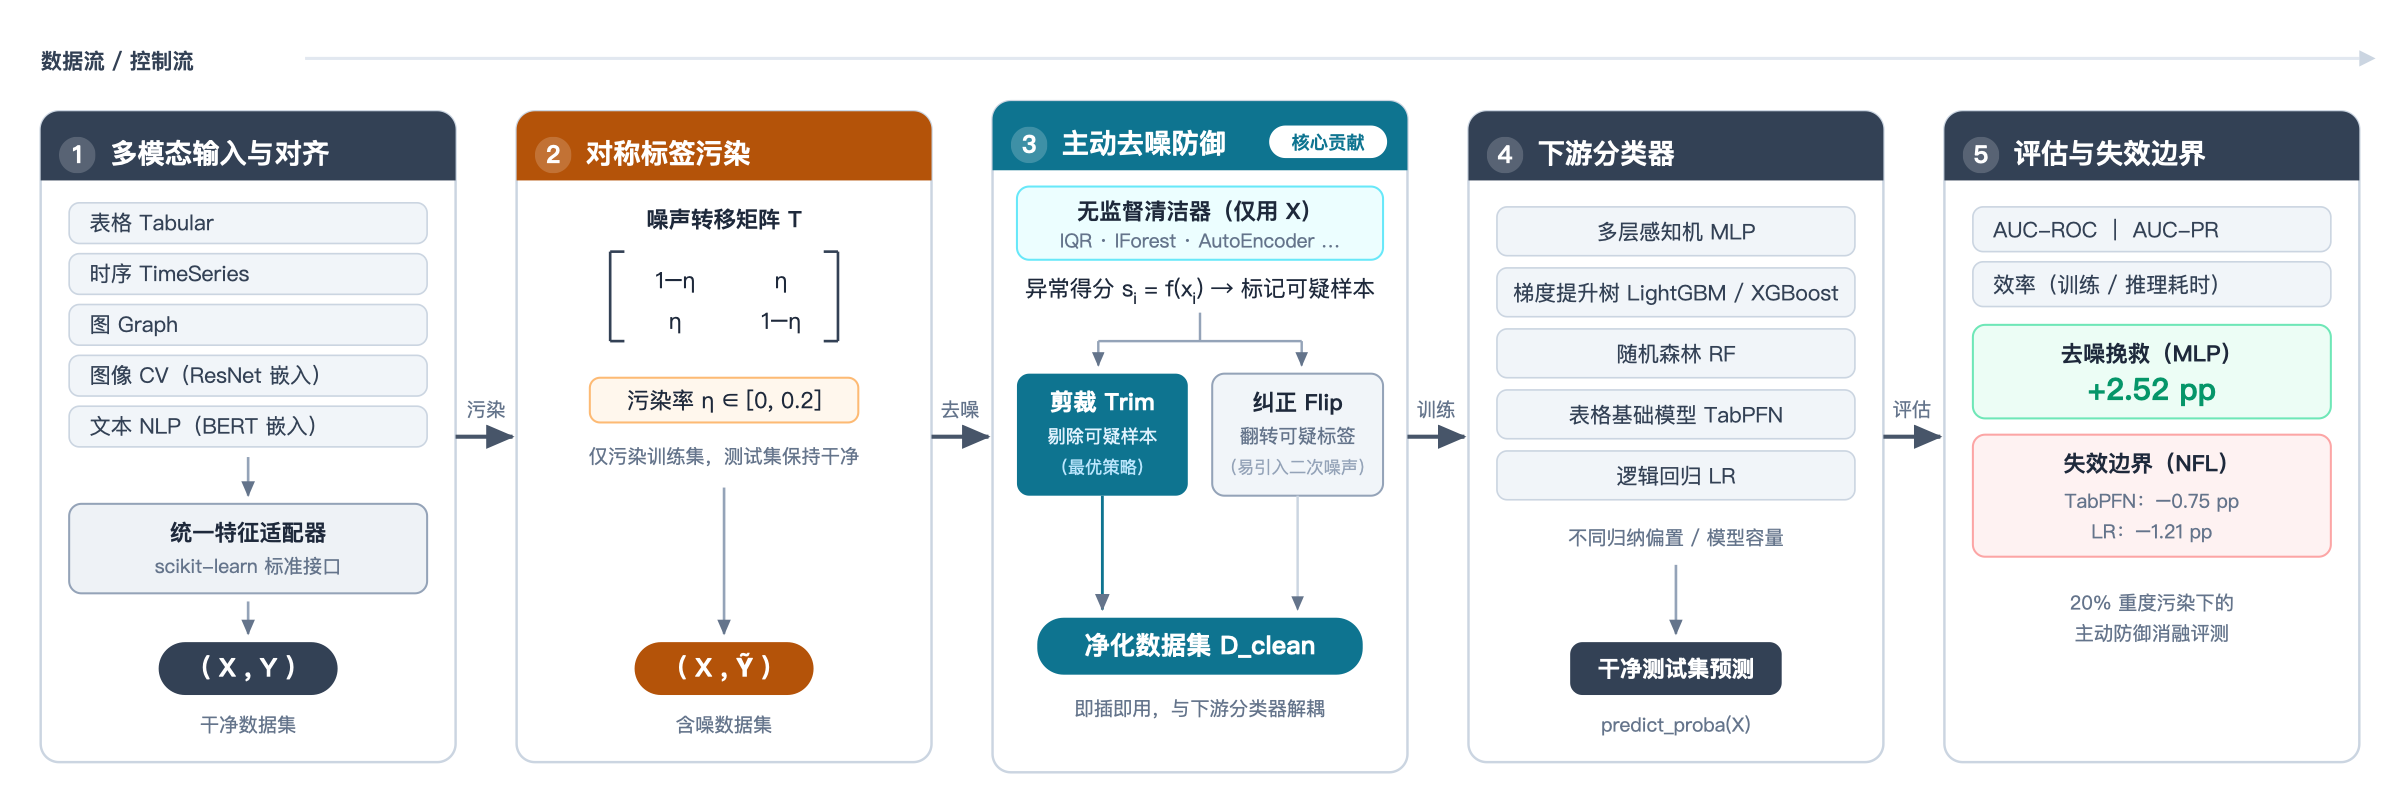
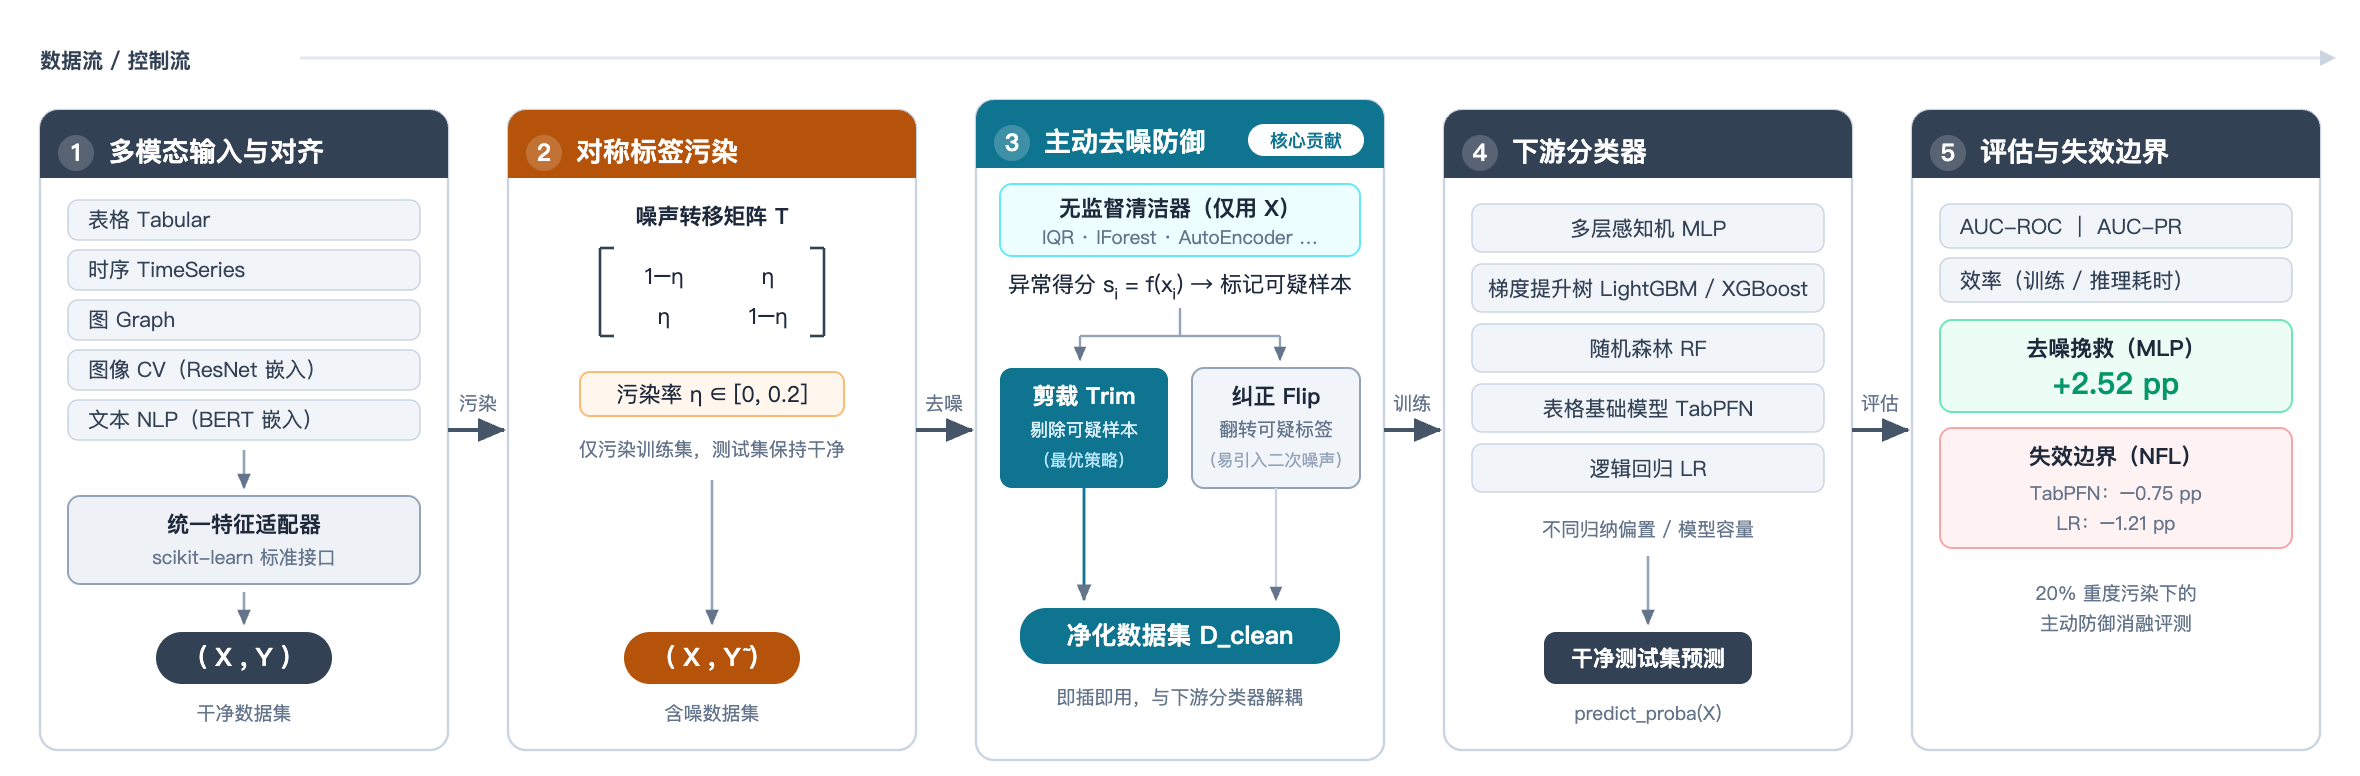
调整图2和图13的细节，避免引起读者误解

diff --git a/Paper/chapters/03_methodology.tex b/Paper/chapters/03_methodology.tex
@@ -1,11 +1,11 @@
 \chapter{方法与系统架构}\label{chap:methodology}
 
-本节阐述本文设计的统一抗污染评测基准与主动去噪防御体系。整个系统由五个阶段串联而成：多模态输入与特征对齐、对称标签污染注入、主动去噪防御（样本剪裁与标签纠正双路径）、下游检测算法评估，以及多指标度量与失效边界界定。端到端架构如~\ref{fig:system-architecture}~所示。
+本节阐述本文设计的统一抗污染评测基准与主动去噪防御体系。整个系统由五个阶段串联而成：多模态输入与特征对齐、对称标签污染注入、主动去噪防御（样本剪裁与标签纠正双路径）、下游检测算法评估，以及多指标度量与失效边界界定。端到端数据流与评测闭环如~\ref{fig:system-architecture}~所示。
 
 \begin{figure*}[!t]
   \centering
   \includegraphics[width=\textwidth]{figures/pipeline_v2.png}
-  \caption{统一跨模态抗污染异常检测评测与主动去噪防御系统的整体架构}\label{fig:system-architecture}
+  \caption{统一跨模态抗污染异常检测基准的数据流与评测闭环}\label{fig:system-architecture}
 \end{figure*}
 
 \section{统一跨模态数据管道}
@@ -67,7 +67,7 @@
   \end{algorithmic}
 \end{algorithm}
 
-图~\ref{fig:trim-flip}~以二维特征空间示意了两种策略的差异：剪裁直接剔除标签与特征相悖的可疑样本，使决策边界恢复洁净；而纠正在翻转标签时，一旦无监督检测器在边界附近误判，便会引入二次噪声并使边界偏斜。这从几何上解释了 Exp4 中 Trim 全面优于 Flip 的现象。
+图~\ref{fig:trim-flip}~以二维特征空间并列示意了两种策略的差异：二者都从同一含噪训练集出发，剪裁直接剔除标签与特征相悖的可疑样本，使决策边界恢复洁净；而纠正在翻转标签时，一旦无监督检测器在边界附近误判，便会引入二次噪声并使边界偏斜。这从几何上解释了 Exp4 中 Trim 全面优于 Flip 的现象。
 
 \begin{figure*}[!t]
   \centering